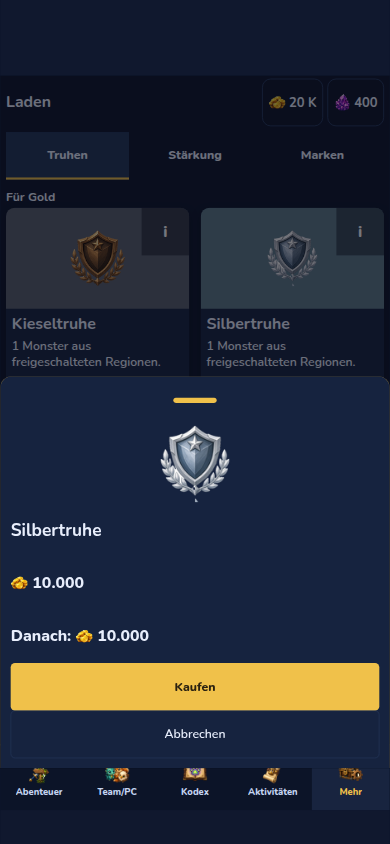
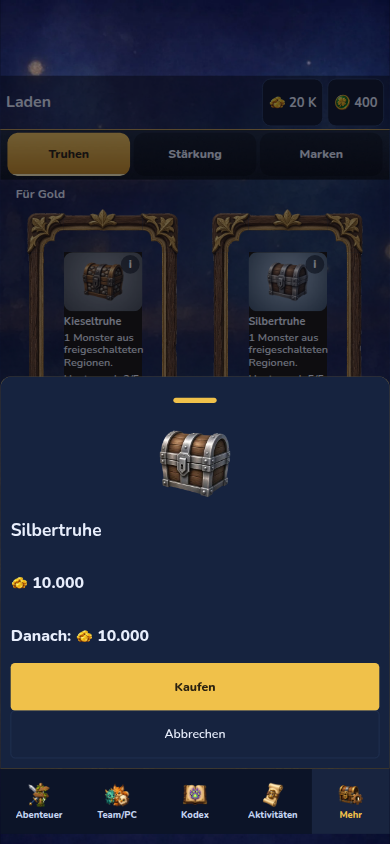
Laden-Grafiken von Smettbo ersetzen die Platzhalter.
Der Kartenrahmen bleibt 480 px breit und wird als 9-Slice gesetzt, die Reiter nutzen die neuen Tafeln, und die EP-Kristalle stehen mit dem Fuß auf einer Linie.

diff --git a/src/adventure/view.ts b/src/adventure/view.ts
@@ -542,8 +542,10 @@ function codex(save: SaveV2, filter: CodexQuery, shell: ShellFlags): string {
   </div>`
 }
 
-function coin(kind: 'gold' | 'marks'): string {
-  const src = kind === 'gold' ? SHOP_ART.gold : SHOP_ART.marks
+function coin(kind: 'gold' | 'marks', large = false): string {
+  const src = kind === 'gold'
+    ? (large ? SHOP_ART.gold : SHOP_ART.goldSm)
+    : (large ? SHOP_ART.marks : SHOP_ART.marksSm)
   return `<img class="coin" src="${art(src)}" alt=""/>`
 }
 
@@ -552,11 +554,14 @@ function shopCard(save: SaveV2, row: ShopOffer, now: number): string {
     ? `${coin(row.pay)} ${row.price.toLocaleString('de-DE')}`
     : esc(row.reason)
   const info = row.info === 'chest' && row.chestTier
-    ? `<button type="button" class="shop-info" data-act="chest-info" data-tier="${row.chestTier}" aria-label="Raten">i</button>`
-    : `<button type="button" class="shop-info" data-act="shop-info" data-id="${row.id}" aria-label="Info">i</button>`
+    ? `<button type="button" class="shop-info" data-act="chest-info" data-tier="${row.chestTier}" aria-label="Raten"></button>`
+    : `<button type="button" class="shop-info" data-act="shop-info" data-id="${row.id}" aria-label="Info"></button>`
   const limit = row.quota ? `<p class="shop-limit">${esc(quotaLine(row.quota, now, save.settings.lang))}</p>` : ''
-  return `<article class="shop-card ${row.tone}" data-offer="${row.id}">
-    <div class="shop-art"><img src="${art(row.art)}" alt=""/>${info}</div>
+  const picture = row.art
+    ? `<img class="shop-item" src="${art(row.art)}" alt=""${row.pict ? ` style="height:${row.pict}%"` : ''}/>`
+    : ''
+  return `<article class="shop-card ${row.tone}" data-offer="${row.id}" style="border-image-source:url('${art(SHOP_ART.frame)}')">
+    <div class="shop-art${row.foot ? ' foot' : ''}" style="background-image:url('${art(row.plate)}')">${picture}${info}</div>
     <h3>${esc(row.name)}</h3>
     <p>${esc(row.effect)}</p>
     ${limit}
@@ -579,13 +584,13 @@ function shop(save: SaveV2, now: number, tab: ShopTab, hint: boolean): string {
   const open = hint
     ? `<button type="button" class="shop-toast" data-act="activity" data-id="chests">${esc(tr(save, 'shop.open'))}</button>`
     : ''
-  return `<div class="shop-screen">
+  return `<div class="shop-screen" lang="${L(save)}">
     <header class="shop-head">
       <h2>${esc(tr(save, 'shop.head'))}</h2>
-      <button type="button" class="wallet" data-act="wallet" data-id="gold">${coin('gold')}<b>${compactAmount(save.gold)}</b></button>
-      <button type="button" class="wallet" data-act="wallet" data-id="marks">${coin('marks')}<b>${compactAmount(save.marks)}</b></button>
+      <button type="button" class="wallet" data-act="wallet" data-id="gold">${coin('gold', true)}<b>${compactAmount(save.gold)}</b></button>
+      <button type="button" class="wallet" data-act="wallet" data-id="marks">${coin('marks', true)}<b>${compactAmount(save.marks)}</b></button>
     </header>
-    <div class="shop-tabs" data-shop-tabs="1">
+    <div class="shop-tabs" data-shop-tabs="1" style="--tab-bar:url('${art(SHOP_ART.tabBar)}');--tab-on:url('${art(SHOP_ART.tabOn)}');--tab-off:url('${art(SHOP_ART.tabOff)}')">
       ${tabs.map(([id, label]) => `<button type="button" data-act="shop-tab" data-id="${id}" class="${tab === id ? 'on' : ''}">${label}</button>`).join('')}
     </div>
     <div class="shop-scroll">${body}${stock}</div>
@@ -878,7 +883,10 @@ export function gameHtml(save: SaveV2, screen: Screen, now: number, pc: PcQuery,
       ${progress(save)}
     </div>` : ''
   const typeScale = fontFactor(save.settings.font)
-  return `<div id="stage" data-font="${save.settings.font}" data-swipe="${save.settings.swipeTabs ? '1' : '0'}" data-battery="${save.settings.battery ? '1' : '0'}" style="--font-scale:${typeScale}" class="${adventure ? 'is-adventure' : 'is-menu'} ${screen === 'shop' ? 'is-shop' : ''} ${save.settings.reduceMotion ? 'reduce-motion' : ''}">
+  const stageStyle = screen === 'shop'
+    ? `--font-scale:${typeScale};background-image:url('${art(SHOP_ART.bg)}');background-size:100% 100%`
+    : `--font-scale:${typeScale}`
+  return `<div id="stage" data-font="${save.settings.font}" data-swipe="${save.settings.swipeTabs ? '1' : '0'}" data-battery="${save.settings.battery ? '1' : '0'}" style="${stageStyle}" class="${adventure ? 'is-adventure' : 'is-menu'} ${screen === 'shop' ? 'is-shop' : ''} ${save.settings.reduceMotion ? 'reduce-motion' : ''}">
     <div class="band band-top"></div>
     <div class="safe">
       <div class="anchor anchor-top">
@@ -910,7 +918,7 @@ function overlayHtml(save: SaveV2, overlay: Overlay): string {
   if (overlay.kind === 'wallet') {
     const gold = overlay.id === 'gold'
     const amount = (gold ? save.gold : save.marks).toLocaleString('de-DE')
-    return `<div class="sheet" data-sheet="swipe">${grab()}<h2>${coin(gold ? 'gold' : 'marks')} ${amount}</h2><p>${esc(tr(save, gold ? 'shop.goldFrom' : 'shop.marksFrom'))}</p><button type="button" class="primary" data-act="close">${esc(tr(save, 'shop.close'))}</button></div>`
+    return `<div class="sheet" data-sheet="swipe">${grab()}<h2>${coin(gold ? 'gold' : 'marks', true)} ${amount}</h2><p>${esc(tr(save, gold ? 'shop.goldFrom' : 'shop.marksFrom'))}</p><button type="button" class="primary" data-act="close">${esc(tr(save, 'shop.close'))}</button></div>`
   }
   if (overlay.kind === 'shop-info') {
     const row = shopOffers(save, Date.now()).find((item) => item.id === overlay.offerId)
@@ -920,7 +928,8 @@ function overlayHtml(save: SaveV2, overlay: Overlay): string {
       : row.act === 'buy-fruit'
         ? `<button type="button" data-act="use-fruit" data-id="${row.dataId}">${esc(tr(save, 'shop.eat'))}</button><button type="button" data-act="sell-fruit" data-id="${row.dataId}">${esc(tr(save, 'shop.sellBtn'))}</button>`
         : ''
-    return `<div class="sheet shop-sheet" data-sheet="swipe">${grab()}<img class="hero" src="${art(row.art)}" alt=""/><h2>${esc(row.name)}</h2><p>${esc(row.effect)}</p>${extra}<button type="button" class="primary" data-act="close">${esc(tr(save, 'shop.close'))}</button></div>`
+    const hero = row.art ? `<img class="hero" src="${art(row.art)}" alt=""/>` : ''
+    return `<div class="sheet shop-sheet" data-sheet="swipe">${grab()}${hero}<h2>${esc(row.name)}</h2><p>${esc(row.effect)}</p>${extra}<button type="button" class="primary" data-act="close">${esc(tr(save, 'shop.close'))}</button></div>`
   }
   if (overlay.kind === 'shop-confirm') {
     const row = shopOffers(save, Date.now()).find((item) => item.id === overlay.offerId)
@@ -928,10 +937,10 @@ function overlayHtml(save: SaveV2, overlay: Overlay): string {
     const balance = row.pay === 'gold' ? save.gold : save.marks
     const after = Math.max(0, balance - row.price)
     return `<div class="sheet shop-sheet shop-confirm" data-sheet="swipe">${grab()}
-      <img class="hero" src="${art(row.art)}" alt=""/>
+      ${row.art ? `<img class="hero" src="${art(row.art)}" alt=""/>` : ''}
       <h2>${esc(row.name)}</h2>
-      <p class="shop-price">${coin(row.pay)} ${row.price.toLocaleString('de-DE')}</p>
-      <p class="shop-price">${esc(tr(save, 'shop.after'))} ${coin(row.pay)} ${after.toLocaleString('de-DE')}</p>
+      <p class="shop-price">${coin(row.pay, true)} ${row.price.toLocaleString('de-DE')}</p>
+      <p class="shop-price">${esc(tr(save, 'shop.after'))} ${coin(row.pay, true)} ${after.toLocaleString('de-DE')}</p>
       <button type="button" class="primary" data-act="shop-yes" data-id="${row.id}">${esc(tr(save, 'shop.buy'))}</button>
       <button type="button" class="ghost" data-act="close">${esc(tr(save, 'reset.no'))}</button>
     </div>`

diff --git a/src/adventure/adventure.css b/src/adventure/adventure.css
@@ -82,6 +82,7 @@ body.is-landscape-phone #turn { display: grid; }
 .anchor-top { display: grid; grid-template-rows: minmax(96px, calc(96px * var(--font-scale, 1))) 132px 120px; overflow: hidden; }
 .is-menu .anchor-top { grid-template-rows: minmax(96px, calc(96px * var(--font-scale, 1))); }
 .is-shop .anchor-top { display: none; }
+.is-shop .band { background: transparent; }
 .is-shop .shop-screen { flex: 1 1 auto; }
 .anchor-mid { overflow: hidden; }
 .is-menu .anchor-mid { overflow: hidden; display: flex; flex-direction: column; }
@@ -842,33 +843,100 @@ img.is-shiny { filter: drop-shadow(0 0 10px #f0c14a); }
 .menu-scroll, .sheet-body, .panel, .list-row, p, h1, h2, label, .onboard {
   overflow-wrap: anywhere;
 }
-.shop-screen { position: relative; display: flex; flex-direction: column; height: 100%; min-height: 0; }
+.shop-screen { position: relative; display: flex; flex-direction: column; height: 100%; min-height: 0; background: transparent; }
 .shop-head, .shop-tabs { flex: 0 0 auto; display: flex; align-items: center; gap: 12px; padding: 8px 16px; }
 .shop-head h2 { margin: 0; flex: 1; font-size: 44px; }
-.wallet, .shop-tabs button, .shop-stock, .shop-buy, .shop-info, .shop-confirm .primary, .shop-confirm .ghost {
+.wallet, .shop-stock, .shop-buy, .shop-info, .shop-confirm .primary, .shop-confirm .ghost {
   min-width: 132px;
   min-height: 132px;
 }
 .wallet { display: flex; align-items: center; justify-content: center; gap: 8px; background: #10182c; border: 2px solid #31456f; border-radius: 24px; padding: 0 16px; }
 .wallet b { font-size: 36px; }
 .wallet .coin, .shop-buy .coin, .shop-price .coin { width: 48px; height: 48px; object-fit: contain; }
-.shop-tabs button { flex: 1; border: 0; border-bottom: 6px solid transparent; background: transparent; font-size: 34px; font-weight: 800; }
-.shop-tabs button.on { background: #24385a; border-bottom-color: #f0c14a; }
-.shop-scroll { flex: 1 1 auto; min-height: 0; overflow: auto; padding: 0 16px 16px; }
+.shop-tabs {
+  height: 140px;
+  min-height: 140px;
+  gap: 10px;
+  padding: 10px 20px;
+  box-sizing: border-box;
+  background: var(--tab-bar) center / 100% 100% no-repeat;
+}
+.shop-tabs button {
+  flex: 1;
+  min-width: 132px;
+  height: 120px;
+  min-height: 120px;
+  border: 0;
+  border-radius: 28px;
+  background: var(--tab-off) center / 100% 100% no-repeat;
+  color: #e7eefc;
+  font-size: 34px;
+  font-weight: 800;
+}
+.shop-tabs button.on { background: var(--tab-on) center / 100% 100% no-repeat; color: #2a2110; }
+.shop-scroll { flex: 1 1 auto; min-height: 0; overflow: auto; padding: 0 44px 16px; }
 .shop-group { margin: 16px 0 8px; font-size: 34px; }
-.shop-grid { display: grid; grid-template-columns: 1fr 1fr; gap: 32px; }
-.shop-card { background: #1a2744; border-radius: 24px; box-shadow: 0 12px 28px rgba(0,0,0,.28); overflow: hidden; display: flex; flex-direction: column; min-height: 600px; }
-.shop-art { position: relative; height: 280px; display: grid; place-items: center; }
-.shop-art img { width: 160px; height: 160px; object-fit: contain; }
-.tone-kiesel .shop-art { background: #5c6370; }
-.tone-silber .shop-art { background: #607d8b; }
-.tone-gold .shop-art { background: #c9a227; }
-.tone-sternen .shop-art { background: linear-gradient(160deg, #5e35b1, #b388ff); }
-.tone-plain .shop-art { background: #24344f; }
-.shop-info { position: absolute; top: 0; right: 0; width: 132px; height: 132px; border: 0; background: rgba(8,12,24,.45); color: #fff; font-size: 44px; font-weight: 800; }
-.shop-card h3 { margin: 12px 16px 0; font-size: 44px; }
-.shop-card p, .shop-limit { margin: 8px 16px; font-size: 34px; }
-.shop-buy { margin-top: auto; width: 100%; border: 0; font-size: 44px; font-weight: 800; display: flex; align-items: center; justify-content: center; gap: 12px; }
+.shop-grid { display: grid; grid-template-columns: 480px 480px; gap: 32px; justify-content: center; align-items: start; }
+.shop-card {
+  box-sizing: border-box;
+  width: 480px;
+  display: flex;
+  flex-direction: column;
+  gap: 8px;
+  border-style: solid;
+  border-width: 130px 129px 147px 133px;
+  border-image-slice: 130 129 147 133;
+  border-image-width: 130px 129px 147px 133px;
+  border-image-repeat: stretch;
+  background: #1a160f;
+  background-clip: padding-box;
+}
+.shop-art {
+  position: relative;
+  width: 100%;
+  aspect-ratio: 480 / 360;
+  display: flex;
+  align-items: center;
+  justify-content: center;
+  background-size: cover;
+  background-position: center;
+  border-radius: 24px;
+  overflow: hidden;
+}
+.shop-art.foot { align-items: flex-end; }
+.shop-item { width: 78%; height: 78%; object-fit: contain; }
+.shop-art.foot .shop-item { width: auto; max-width: 96%; object-fit: contain; object-position: bottom center; }
+.shop-info {
+  position: absolute;
+  top: 0;
+  right: 0;
+  width: 132px;
+  height: 132px;
+  border: 0;
+  background: transparent;
+  color: #fff;
+  font-size: 36px;
+  font-weight: 800;
+  display: flex;
+  align-items: flex-start;
+  justify-content: flex-end;
+  padding: 8px;
+  box-sizing: border-box;
+}
+.shop-info::after {
+  content: "i";
+  width: 52px;
+  height: 52px;
+  border-radius: 50%;
+  background: rgba(8, 12, 24, 0.55);
+  display: grid;
+  place-items: center;
+  font-size: 32px;
+  line-height: 1;
+}
+.shop-card h3 { margin: 4px 0 0; font-size: 30px; line-height: 1.15; overflow-wrap: normal; hyphens: manual; }
+.shop-card p, .shop-limit { margin: 0; font-size: 30px; line-height: 1.2; overflow-wrap: normal; hyphens: auto; }
+.shop-buy { margin-top: auto; width: 100%; border: 0; font-size: 30px; font-weight: 800; display: flex; align-items: center; justify-content: center; gap: 8px; padding: 0 8px; }
 .shop-buy.can { background: #f0c14a; color: #2a2110; }
 .shop-buy.blocked { background: #3a4258; color: #c5d0e6; }
 .shop-buy.shop-shake { animation: shop-shake 280ms linear; }

diff --git a/src/adventure/shopOffer.ts b/src/adventure/shopOffer.ts
@@ -26,17 +26,54 @@ export const SHOP_TABS = ['chests', 'boost', 'marks'] as const
 export type ShopTab = (typeof SHOP_TABS)[number]
 export type ShopPay = 'gold' | 'marks'
 
-/** Swap these paths when the chest and crystal art arrives. */
+/**
+ * Smettbo shop art. Swap these paths when a drawing is replaced.
+ * Fangfrucht is no longer sold; the Glücksfrucht (id fang) uses frucht_glueck.
+ */
 export const SHOP_ART = {
-  gold: 'icons/gold_128.png',
-  marks: 'icons/gems_128.png',
-  kiesel: 'icons/rank_bronze_96.png',
-  silber: 'icons/rank_silver_96.png',
-  goldChest: 'icons/rank_gold_96.png',
-  sternen: 'icons/star_128.png',
-  crystal: 'icons/essence_128.png',
-  fruit: 'icons/catalog_64.png'
+  bg: 'shop/shop_bg.webp',
+  frame: 'shop/card_frame.webp',
+  gold: 'shop/icon_gold.webp',
+  goldSm: 'shop/icon_gold_64.webp',
+  marks: 'shop/icon_marke.webp',
+  marksSm: 'shop/icon_marke_64.webp',
+  chest: {
+    kiesel: 'shop/chest_kiesel.webp',
+    silber: 'shop/chest_silber.webp',
+    gold: 'shop/chest_gold.webp',
+    sternen: 'shop/chest_sternen.webp'
+  },
+  plate: {
+    kiesel: 'shop/card_bg_kiesel.webp',
+    silber: 'shop/card_bg_silber.webp',
+    gold: 'shop/card_bg_gold.webp',
+    sternen: 'shop/card_bg_sternen.webp',
+    neutral: 'shop/card_bg_neutral.webp'
+  },
+  crystal: {
+    s: 'shop/ep_kristall_s.webp',
+    m: 'shop/ep_kristall_m.webp',
+    l: 'shop/ep_kristall_l.webp',
+    xl: 'shop/ep_kristall_xl.webp'
+  },
+  fruit: {
+    fang: 'shop/frucht_glueck.webp',
+    goldfang: 'shop/frucht_goldfang.webp',
+    spuer: 'shop/frucht_spur.webp'
+  },
+  tabBar: 'shop/tab_bar_bg.webp',
+  tabOn: 'shop/tab_active.webp',
+  tabOff: 'shop/tab_inactive.webp'
 } as const
+
+/** 9-slice insets of the 480×600 frame. Corners stay this size; only the edges stretch. */
+export const FRAME_SLICE = { top: 130, right: 129, bottom: 147, left: 133 } as const
+
+/** Card width stays within 15 percent of the 480px frame. */
+export const CARD_WIDTH = { base: 480, min: 408, max: 552 } as const
+
+/** Crystal drawings, shortest to tallest, feet on the same line. */
+export const CRYSTAL_PICT = { s: 60, m: 72, l: 86, xl: 96 } as const
 
 export interface ShopQuota {
   left: number
@@ -52,6 +89,7 @@ export interface ShopOffer {
   price: number
   pay: ShopPay
   art: string
+  plate: string
   tone: string
   quota: ShopQuota | null
   canBuy: boolean
@@ -60,6 +98,10 @@ export interface ShopOffer {
   dataId: string
   info: 'chest' | 'item'
   chestTier?: ChestTier
+  /** Draw the picture against the bottom of the plate. */
+  foot: boolean
+  /** Picture height as a percent of the plate. 0 uses the default fit. */
+  pict: number
 }
 
 export function missingText(amount: number, lang: Lang = 'de'): string {
@@ -98,8 +140,8 @@ export function quotaLine(quota: ShopQuota, now: number, lang: Lang = 'de'): str
   return t(lang, 'shop.tomorrow', { time: resetCountdown(now) })
 }
 
-function offer(partial: ShopOffer): ShopOffer {
-  return partial
+function offer(partial: Omit<ShopOffer, 'foot' | 'pict'> & Partial<Pick<ShopOffer, 'foot' | 'pict'>>): ShopOffer {
+  return { foot: false, pict: 0, ...partial }
 }
 
 function say(save: SaveV2, key: string, vars?: Record<string, string | number>): string {
@@ -107,12 +149,7 @@ function say(save: SaveV2, key: string, vars?: Record<string, string | number>):
 }
 
 function chestOffer(save: SaveV2, tier: ChestTier, tab: ShopTab, now: number): ShopOffer {
-  const art: Record<ChestTier, string> = {
-    kiesel: SHOP_ART.kiesel,
-    silber: SHOP_ART.silber,
-    gold: SHOP_ART.goldChest,
-    sternen: SHOP_ART.sternen
-  }
+  const art = SHOP_ART.chest[tier]
   const gold = tier === 'kiesel' || tier === 'silber'
   const price = gold ? chestGoldPrice(save, tier) : chestMarkPrice(tier === 'gold' ? 'gold' : 'sternen')
   const pay: ShopPay = gold ? 'gold' : 'marks'
@@ -130,7 +167,8 @@ function chestOffer(save: SaveV2, tier: ChestTier, tab: ShopTab, now: number): S
     effect: say(save, 'shop.chestFx'),
     price,
     pay,
-    art: art[tier],
+    art,
+    plate: SHOP_ART.plate[tier],
     tone: `tone-${tier}`,
     quota,
     canBuy: reason === '',
@@ -166,7 +204,10 @@ export function shopOffers(save: SaveV2, now: number): ShopOffer[] {
       effect: `+${crystalExp(item.id, level).toLocaleString('de-DE')} EP.`,
       price,
       pay: 'gold',
-      art: SHOP_ART.crystal,
+      art: SHOP_ART.crystal[item.id],
+      plate: SHOP_ART.plate.neutral,
+      foot: true,
+      pict: CRYSTAL_PICT[item.id],
       tone: 'tone-plain',
       quota: null,
       canBuy: reason === '',
@@ -187,7 +228,8 @@ export function shopOffers(save: SaveV2, now: number): ShopOffer[] {
       effect: say(save, `fruit.fx.${item.id}`),
       price,
       pay: 'gold',
-      art: SHOP_ART.fruit,
+      art: SHOP_ART.fruit[item.id as keyof typeof SHOP_ART.fruit] ?? '',
+      plate: SHOP_ART.plate.neutral,
       tone: 'tone-plain',
       quota: null,
       canBuy: reason === '',
@@ -214,6 +256,7 @@ export function shopOffers(save: SaveV2, now: number): ShopOffer[] {
       price: prize.marks,
       pay: 'marks',
       art: `monsters/${sp.id}_256.png`,
+      plate: SHOP_ART.plate.neutral,
       tone: 'tone-plain',
       quota: null,
       canBuy: reason === '',

diff --git a/src/adventure/shopOffer.test.ts b/src/adventure/shopOffer.test.ts
@@ -72,7 +72,21 @@ describe('shop offers', () => {
     expect(activities).not.toContain('data-act="chest-buy"')
     expect(activities).not.toContain('data-act="chest-marks"')
     const css = readFileSync(new URL('./adventure.css', import.meta.url), 'utf8')
-    expect(css).toContain('grid-template-columns: 1fr 1fr')
+    expect(css).toContain('grid-template-columns: 480px 480px')
+    expect(css).toContain('border-image-slice: 130 129 147 133')
     expect(css).toContain('min-height: 132px')
+    expect(shopOffers(save, now).find((row) => row.id === 'crystal-s')?.pict).toBe(60)
+    expect(shopOffers(save, now).find((row) => row.id === 'crystal-m')?.pict).toBe(72)
+    expect(shopOffers(save, now).find((row) => row.id === 'crystal-l')?.pict).toBe(86)
+    expect(shopOffers(save, now).find((row) => row.id === 'crystal-xl')?.pict).toBe(96)
+    expect(shopOffers(save, now).find((row) => row.id === 'crystal-xl')?.foot).toBe(true)
+    expect(shopOffers(save, now).find((row) => row.id === 'crystal-s')?.plate).toContain('card_bg_neutral')
+    const kiesel = shopOffers(save, now).find((row) => row.id === 'chest-kiesel')
+    expect(kiesel?.art).toBe('shop/chest_kiesel.webp')
+    expect(kiesel?.plate).toContain('card_bg_kiesel')
+    expect(shopOffers(save, now).find((row) => row.id === 'fruit-fang')?.art).toBe('shop/frucht_glueck.webp')
+    expect(html).not.toContain('frucht_fang')
+    expect(html).toContain('shop/shop_bg.webp')
+    expect(html).toContain('icon_gold.webp')
   })
 })

diff --git a/public/assets/LICENSES.md b/public/assets/LICENSES.md
@@ -17,3 +17,4 @@
 - monsters/m96–m100: KI-generiert mit dem Grok-Bot-Bildgenerator, selbst erstellt.
 - backgrounds/bg_gm_{wiese,bach,wald}.jpg/.webp, fx/fx_bannsiegel*.png/jpg: KI-generiert (Grok-Bot-Bildgenerator), 11.11.2026, eigenes Asset, keine Fremdvorlage.
 - backgrounds/bg_gm_{wiese,bach,wald}_p.jpg/.webp (1080×980), backgrounds/bg_frame_desktop.jpg/.webp, icons/tab_{abenteuer,team,kodex,aktivitaeten,mehr}*.png: KI-generiert (Grok-Bot-Bildgenerator), 15.11.2026, eigenes Asset für das Hochformat.
+- shop/: Laden-Grafiken von Smettbo, 17.11.2026, eigenes Asset. WebP-Fassung für das Bundle. Rahmen 480×600, 9-Slice links 133 / oben 130 / rechts 129 / unten 147. frucht_fang und die Vorschau preview_shop werden nicht ausgeliefert; die Glücksfrucht nutzt frucht_glueck.
